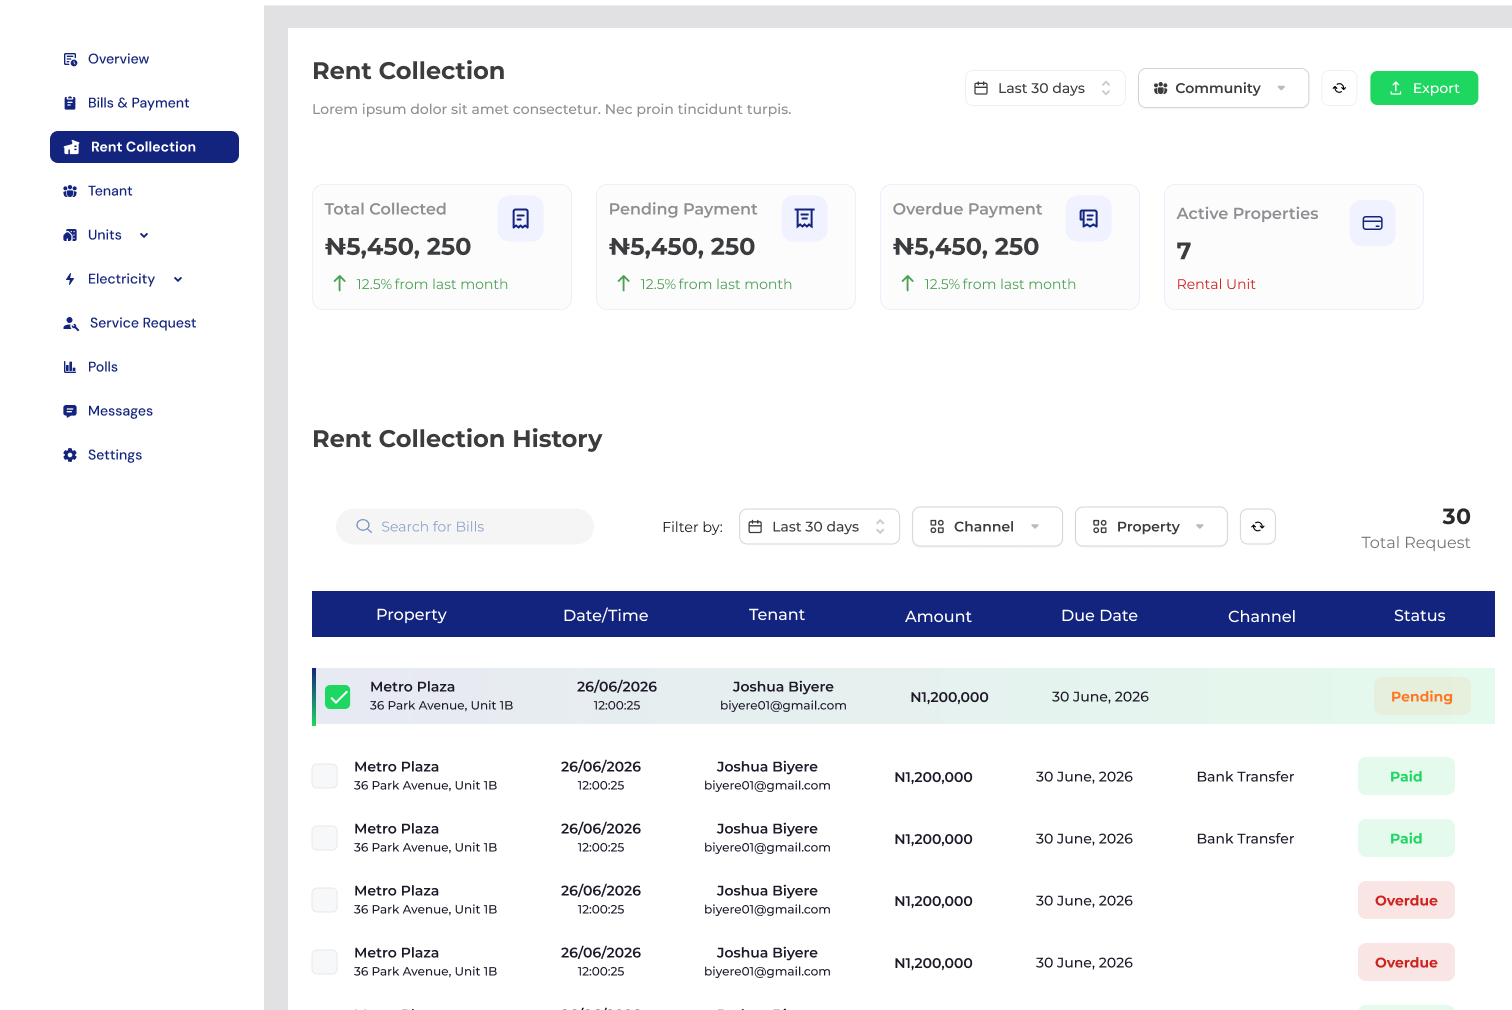
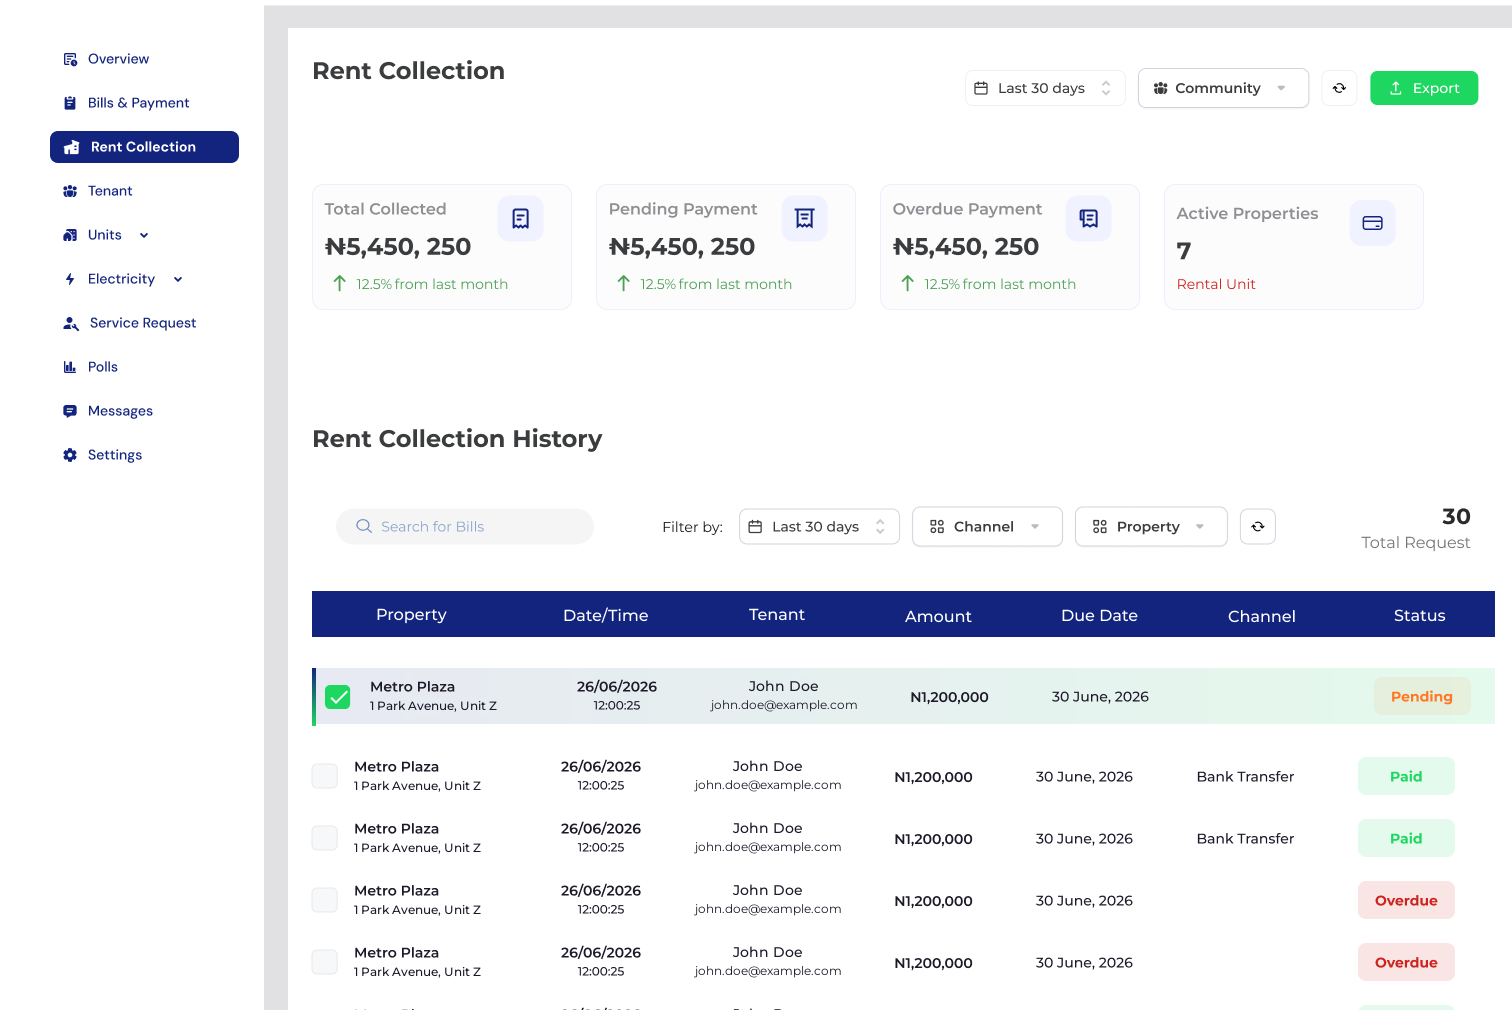
Refactor Hero and SignupSection components for improved layout and text clarity; update caretaker images

diff --git a/app/caretaker/components/SignupSection.tsx b/app/caretaker/components/SignupSection.tsx
@@ -73,36 +73,38 @@ const SignupSection = () => {
 					publicly on 1 November. Tell us which one you are.
 				</p>
 
-				<div
-					role="tablist"
-					className="mb-9 inline-flex flex-wrap justify-center gap-1.5 rounded-full border border-[#E8EBF5] bg-white p-1.5"
-				>
-					{tabs.map((t) => {
-						const active = tab === t.id;
-						return (
-							<button
-								key={t.id}
-								type="button"
-								role="tab"
-								aria-selected={active}
-								onClick={() => setTab(t.id)}
-								className="relative cursor-pointer rounded-full border-none bg-transparent px-5 py-[11px] text-[14.5px] font-semibold"
-							>
-								<span
-									className={`absolute inset-0 rounded-full bg-[#1B2E6B] transition-opacity duration-200 ${
-										active ? "opacity-100" : "opacity-0"
-									}`}
-								/>
-								<span
-									className={`relative transition-colors duration-200 ${
-										active ? "text-white" : "text-[#6B7A9E]"
-									}`}
+				<div className="mb-9 lg:-mx-16">
+					<div
+						role="tablist"
+						className="inline-flex max-w-full flex-wrap justify-center gap-1.5 rounded-[28px] border border-[#E8EBF5] bg-white p-1.5 lg:flex-nowrap lg:rounded-full"
+					>
+						{tabs.map((t) => {
+							const active = tab === t.id;
+							return (
+								<button
+									key={t.id}
+									type="button"
+									role="tab"
+									aria-selected={active}
+									onClick={() => setTab(t.id)}
+									className="relative cursor-pointer rounded-full border-none bg-transparent px-5 py-[11px] text-[14.5px] font-semibold whitespace-nowrap"
 								>
-									{t.label}
-								</span>
-							</button>
-						);
-					})}
+									<span
+										className={`absolute inset-0 rounded-full bg-[#1B2E6B] transition-opacity duration-200 ${
+											active ? "opacity-100" : "opacity-0"
+										}`}
+									/>
+									<span
+										className={`relative transition-colors duration-200 ${
+											active ? "text-white" : "text-[#6B7A9E]"
+										}`}
+									>
+										{t.label}
+									</span>
+								</button>
+							);
+						})}
+					</div>
 				</div>
 
 				<div className="rounded-[20px] border border-[#E8EBF5] bg-white p-[34px] text-left shadow-[0_20px_50px_rgba(27,46,107,0.07)]">

diff --git a/app/caretaker/components/Hero.tsx b/app/caretaker/components/Hero.tsx
@@ -12,13 +12,13 @@ const Hero = () => {
 					<h1 className="mb-6 font-alan text-[clamp(38px,4.6vw,62px)] leading-[1.04] font-semibold tracking-[-0.02em] text-balance text-[#16234A]">
 						Who is looking after your property when you&rsquo;re not there?
 					</h1>
-					<p className="mb-5 max-w-[38em] text-[18px] leading-[1.6] text-pretty text-[#6B7A9E]">
+					<p className="mb-3 max-w-[38em] text-[18px] leading-[1.6] text-pretty text-[#6B7A9E]">
 						Run your property from your phone with one system for records, work
-						orders, payments, access and reporting. When you need physical
-						presence, add a certified Caretaker on the ground.
+						orders, payments, access and reporting.
 					</p>
-					<p className="mb-8 text-[16.5px] leading-[1.6] font-medium text-[#16234A]">
-						Every job recorded. Every naira accounted for. Every decision yours.
+					<p className="mb-8 max-w-[38em] text-[18px] leading-[1.6] text-pretty text-[#6B7A9E]">
+						When you need physical presence, add a certified Caretaker on the
+						ground.
 					</p>
 					<div className="flex flex-wrap items-center gap-3">
 						<ScrollLink
